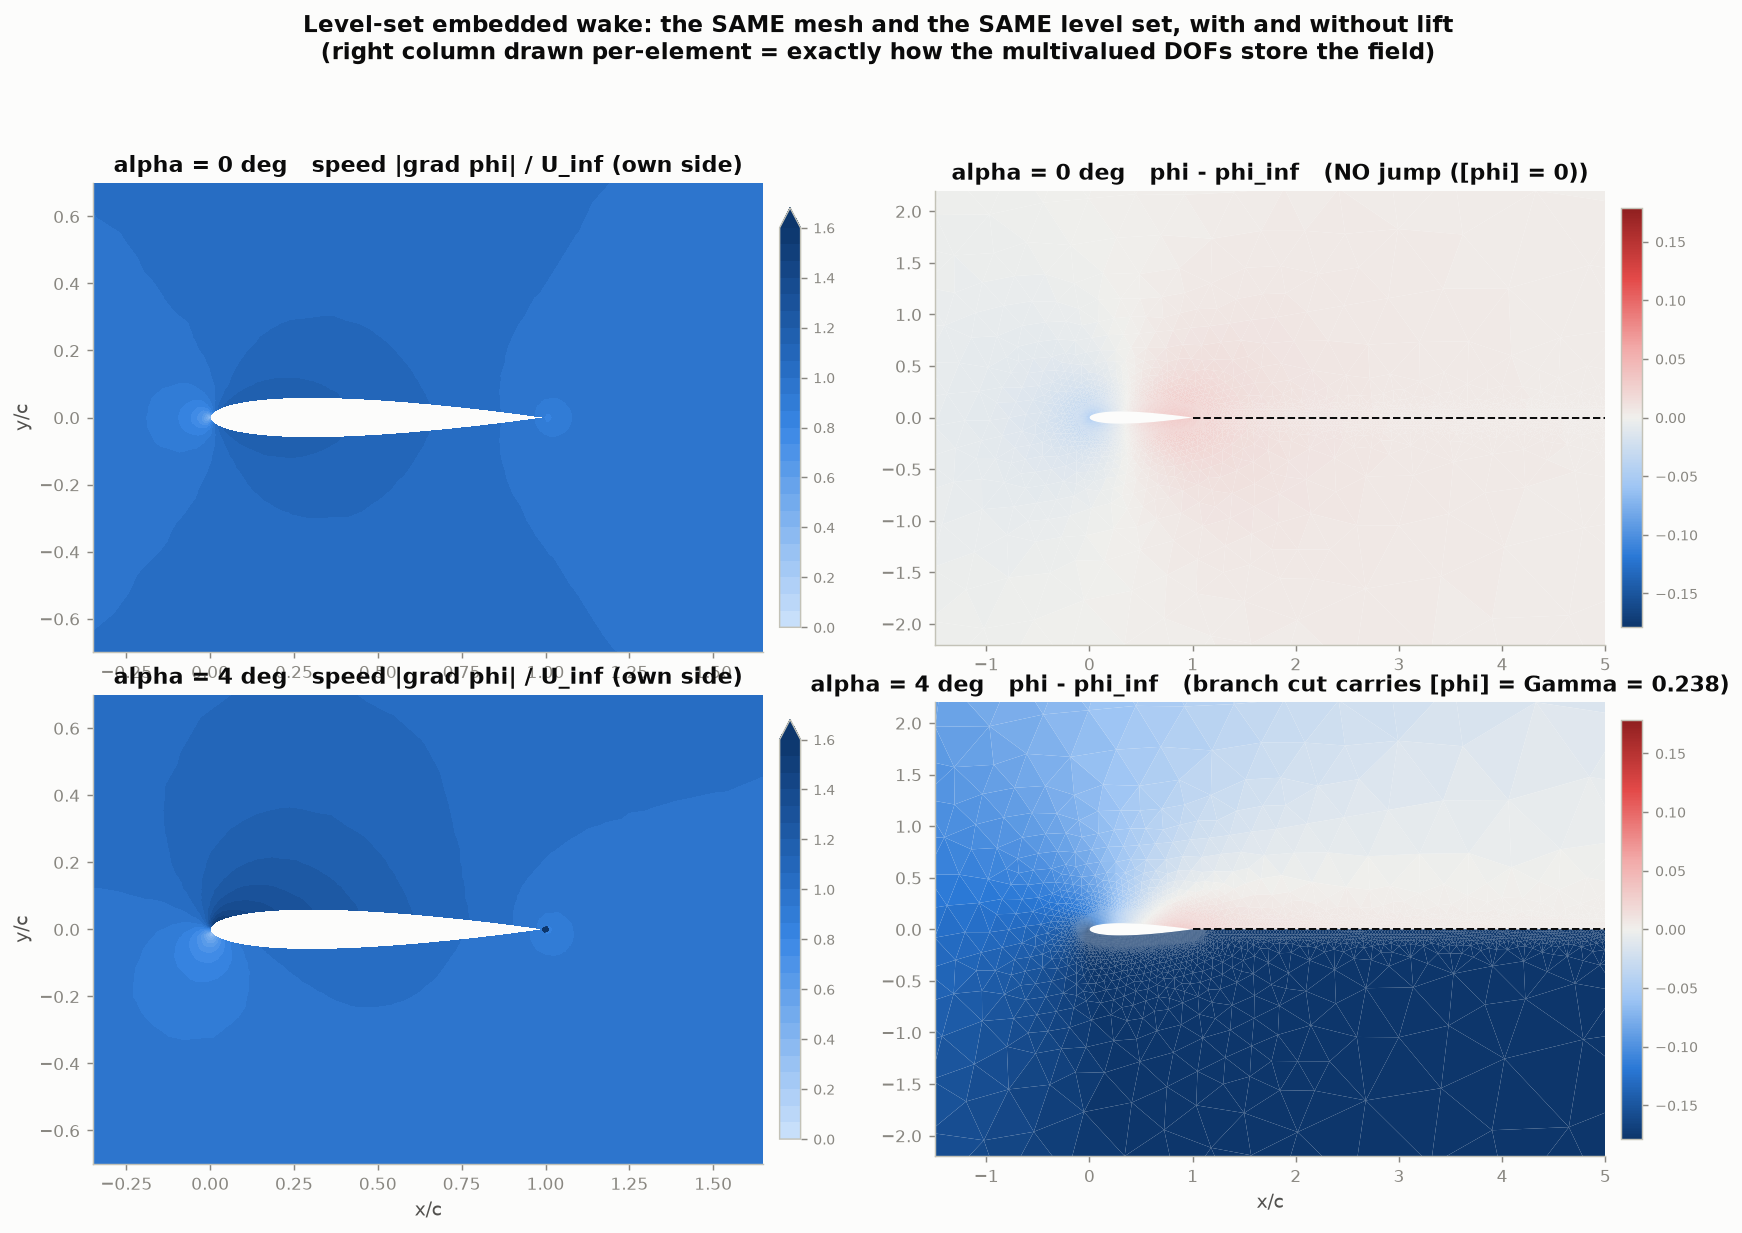
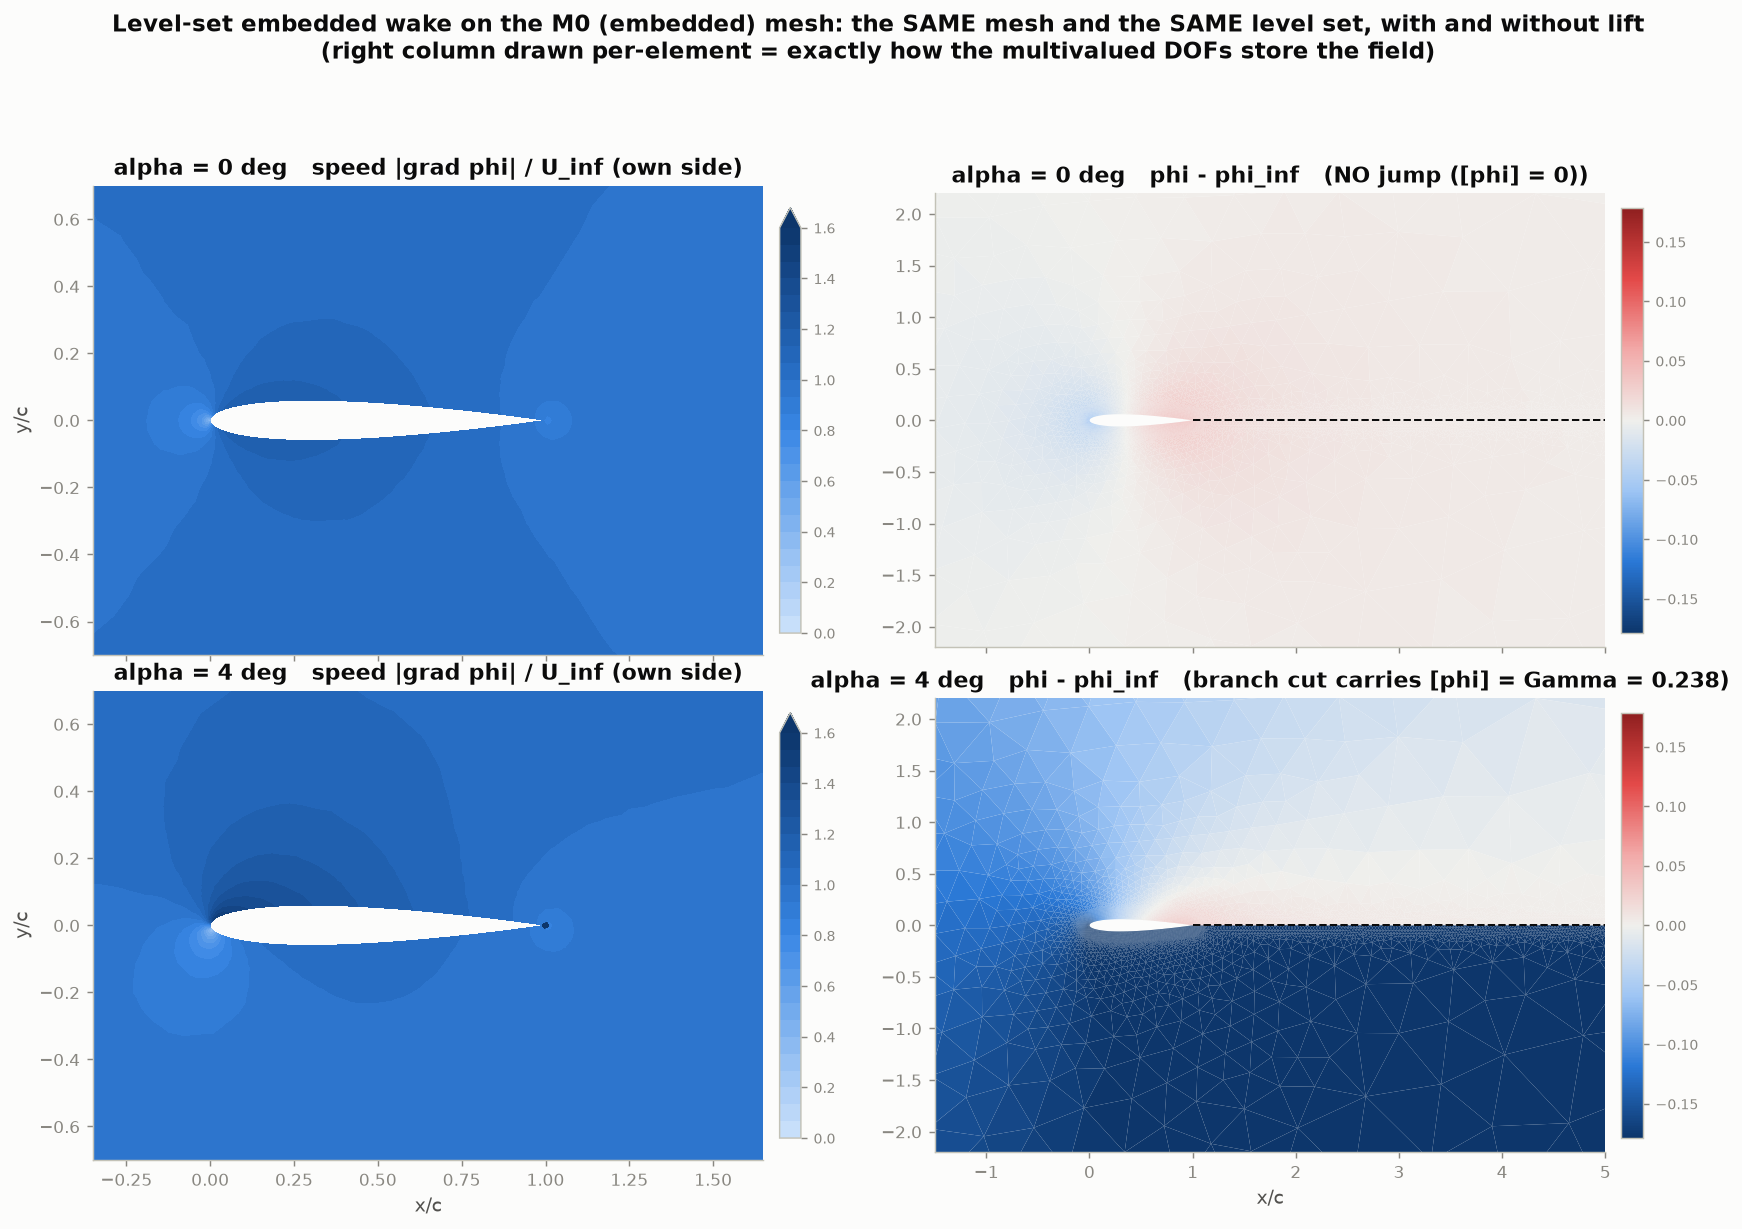
Track B B3/B4 demo: show BOTH mesh families in the flow field and the Cp
Per the request, the wake-free M3 mesh is now a full first-class case, not just
the TE-zoom contrast:

- flowfield_lift_vs_nolift_m3.png (NEW) -- the speed and perturbation-potential
  clouds on the wake-FREE M3 mesh, same layout as the M0 figure. The coarser
  wake-free triangulation is visible in the potential panel, and the branch cut
  still carries [phi] = Gamma = 0.234 crisply along the wake.

- wall_cp.png -- now overlays BOTH meshes: solid = M0 wake-embedded, dotted = M3
  wake-free, colour = surface (red upper / blue lower), grey dashed = conforming
  reference. Cp axis inverted; the two mesh families are clearly distinguished
  and both track the conforming solver (M3 cl_p 0.4674 vs conforming 0.4786 at
  alpha = 4, 2.3%, despite being coarser and wake-free).

Both meshes are now solved at both incidences up front (solve_all on M0 medium
and M3 coarse); demo_flowfield is parameterized by mesh, demo_wall_cp takes both,
and demo_dual_mesh reuses the M3 cases. Also hid the top-row x tick labels in the
flow-field figures (they collided with the bottom-row titles).

Self-checks now 13/13 PASS (added per-mesh no-lift/lift Gamma checks and an M3
wake-free cl_p-vs-conforming check). docs/demo_report.md updated. No solver
changes.

diff --git a/cases/demo/b3_levelset_lifting/run_demo.py b/cases/demo/b3_levelset_lifting/run_demo.py
@@ -5,30 +5,33 @@ The mesh topology knows NOTHING about the wake. A level set cuts through it,
 the cut elements are enriched with auxiliary DOFs, and lift emerges. This demo
 makes every part of that visible and self-checks it.
 
-  1. flowfield_lift_vs_nolift.png -- NACA0012 at alpha = 0 (no lift) and
-     alpha = 4 (lift), on the SAME mesh with the SAME level set. Speed field
-     (smooth flow off the TE = Kutta) and the perturbation potential rendered
-     DISCONTINUOUSLY, i.e. exactly as the multivalued DOFs store it: a crisp
-     branch cut along the wake carrying [phi] = Gamma at alpha = 4, and NO
-     jump at all at alpha = 0.
+  1. flowfield_lift_vs_nolift.png (M0 embedded) and
+     flowfield_lift_vs_nolift_m3.png (M3 wake-free) -- NACA0012 at alpha = 0 (no
+     lift) and alpha = 4 (lift), on the SAME mesh with the SAME level set, on
+     BOTH mesh families. Speed field (smooth flow off the TE = Kutta) and the
+     perturbation potential rendered DISCONTINUOUSLY, i.e. exactly as the
+     multivalued DOFs store it: a crisp branch cut carrying [phi] = Gamma at
+     alpha = 4, and NO jump at all at alpha = 0. The M3 panel shows the coarser
+     wake-free triangulation the level set cuts through generically.
 
-  2. levelset_region.png -- WHERE the level set acts. The unstructured mesh
+  3. levelset_region.png -- WHERE the level set acts. The unstructured mesh
      near the TE and along the wake corridor, with each element coloured by
      its role: cut (enriched, assembled twice), below-TE fan (its TE reference
      is the aux DOF), and the TE's wall-adjacent upper/lower control volumes
      (where the B4 Kutta condition lives). Nothing else in the mesh is touched.
 
-  3. wake_jump.png -- HOW the jump survives from the TE to the far field. The
+  4. wake_jump.png -- HOW the jump survives from the TE to the far field. The
      nodal jump [phi] at every cut node vs downstream distance: the g1+g2 wake
      LS convects it unchanged (constant = Gamma) all the way out, and the
      far-field aux DOFs are left FREE so it exits rather than being drained.
      Also shows the multivalued STORAGE: main vs aux DOF values at the sheet.
 
-  4. wall_cp.png -- surface Cp at both incidences, using the D11 per-side DOF
-     mapping (lower-surface TE triangles must read the TE's AUX value), cross
-     checked against the conforming solver on the same mesh.
+  5. wall_cp.png -- surface Cp at both incidences on BOTH mesh families
+     (solid = M0 embedded, dotted = M3 wake-free, colour = surface, grey dashed
+     = conforming reference), inverted axis. Uses the D11 per-side DOF mapping
+     (lower-surface TE triangles must read the TE's AUX value).
 
-  5. dual_mesh_embedded_vs_free.png -- the SAME level-set path on the
+  6. dual_mesh_embedded_vs_free.png -- the SAME level-set path on the
      wake-EMBEDDED M0 mesh (which HAS a `wake` tag, wake nodes lying exactly on
      the sheet) and on the wake-FREE M3 mesh (NO `wake` tag anywhere, generic
      cuts through generic elements -- the actual Track B workflow target). Same
@@ -38,10 +41,11 @@ Standalone + self-checking:  python cases/demo/b3_levelset_lifting/run_demo.py
 Outputs: cases/demo/b3_levelset_lifting/results/{*.png, summary.csv, checks.csv}
 Exit code 0 iff every acceptance check passes. Runtime ~2 min.
 
-Dual-mesh (roadmap Track B working rule): the detailed figures 1-4 run on the
-wake-embedded M0 family (which also permits the strict same-mesh A/B against the
-conforming solver); figure 5 adds the wake-free M3 family, where no conforming
-counterpart exists at all.
+Dual-mesh (roadmap Track B working rule): the flow field (fig 1-2) and Cp
+(fig 5) run on BOTH the wake-embedded M0 family (which also permits the strict
+same-mesh A/B against the conforming solver) and the wake-free M3 family (where
+no conforming counterpart exists at all); the enrichment map and wake-jump
+figures (3-4) are shown on M0. Runtime ~2 min.
 """
 
 import sys
@@ -156,8 +160,9 @@ def _explode(sec, wls):
     return verts, vals
 
 
-def demo_flowfield(mesh, cases, checks):
-    print("[1/5] flow field: lift vs no lift (same mesh, same level set)")
+def demo_flowfield(mesh, cases, checks, *, tag, mesh_label, out_name, step):
+    print(f"[{step}] flow field ({mesh_label}): lift vs no lift "
+          f"(same mesh, same level set)")
     fig, axes = plt.subplots(2, 2, figsize=(13.6, 9.4))
     # ONE colour scale for both rows, so "no lift" reads as a genuinely flat
     # field instead of an auto-scaled picture of round-off.
@@ -179,8 +184,8 @@ def demo_flowfield(mesh, cases, checks):
         ax.set_title(f"alpha = {a:.0f} deg   speed |grad phi| / U_inf "
                      f"(own side)")
         ax.set_ylabel("y/c")
-        if row == 1:
-            ax.set_xlabel("x/c")
+        ax.set_xlabel("x/c" if row == 1 else "")
+        ax.tick_params(labelbottom=(row == 1))
         ax.grid(False)
         cb = fig.colorbar(t, ax=ax, shrink=0.88, pad=0.02)
         cb.ax.tick_params(labelsize=8, colors=MUTED)
@@ -199,27 +204,27 @@ def demo_flowfield(mesh, cases, checks):
         jump = "NO jump ([phi] = 0)" if abs(gamma) < 1e-3 \
             else f"branch cut carries [phi] = Gamma = {gamma:.3f}"
         ax.set_title(f"alpha = {a:.0f} deg   phi - phi_inf   ({jump})")
-        if row == 1:
-            ax.set_xlabel("x/c")
+        ax.set_xlabel("x/c" if row == 1 else "")
+        ax.tick_params(labelbottom=(row == 1))
         ax.grid(False)
         cb = fig.colorbar(pc, ax=ax, shrink=0.88, pad=0.02)
         cb.ax.tick_params(labelsize=8, colors=MUTED)
         cb.outline.set_edgecolor(BASELINE)
 
-    fig.suptitle("Level-set embedded wake: the SAME mesh and the SAME level "
-                 "set, with and without lift\n"
+    fig.suptitle(f"Level-set embedded wake on the {mesh_label} mesh: the SAME "
+                 "mesh and the SAME level set, with and without lift\n"
                  "(right column drawn per-element = exactly how the "
                  "multivalued DOFs store the field)",
                  fontsize=12.5, fontweight="semibold", color=INK)
     fig.tight_layout(rect=(0, 0, 1, 0.92), h_pad=2.4)
-    finish(fig, OUT, "flowfield_lift_vs_nolift.png")
+    finish(fig, OUT, out_name)
 
     g0, g4 = cases[0.0]["res"]["gamma"], cases[4.0]["res"]["gamma"]
-    checks.add("no-lift", "Gamma at alpha = 0", f"{g0:.2e}",
-               "|Gamma| < 1e-3 (symmetric => no circulation)",
+    checks.add(f"no-lift[{tag}]", f"Gamma at alpha = 0 ({mesh_label})",
+               f"{g0:.2e}", "|Gamma| < 1e-3 (symmetric => no circulation)",
                bool(abs(g0) < 1e-3))
-    checks.add("lift", "Gamma at alpha = 4", f"{g4:.4f}",
-               "> 0.2 (the level-set path develops circulation)",
+    checks.add(f"lift[{tag}]", f"Gamma at alpha = 4 ({mesh_label})",
+               f"{g4:.4f}", "> 0.2 (the level-set path develops circulation)",
                bool(g4 > 0.2))
 
 
@@ -255,7 +260,7 @@ def _tri_class(mesh, cm, mvop, sec):
 
 
 def demo_levelset_region(mesh, cases, checks):
-    print("[2/5] where the level set acts (mesh + enriched elements)")
+    print("[3/6] where the level set acts (mesh + enriched elements)")
     c = cases[4.0]
     cm, mvop = c["cm"], c["mvop"]
     sec = _section(mesh, cm, mvop, c["res"]["phi_ext"], 4.0)
@@ -351,7 +356,7 @@ def demo_levelset_region(mesh, cases, checks):
 # 3. how the jump survives to the far field + how it is STORED
 # ---------------------------------------------------------------------------
 def demo_wake_jump(mesh, cases, checks):
-    print("[3/5] the wake jump: convected TE -> far field, and how it is stored")
+    print("[4/6] the wake jump: convected TE -> far field, and how it is stored")
     fig, axes = plt.subplots(1, 2, figsize=(13.2, 5.0))
 
     ax = axes[0]
@@ -445,17 +450,23 @@ def _cp_b(mesh, cm, mvop, phi_ext):
     return xc, cp, n_out[:, 1] > 0, cp, area, n_out
 
 
-def demo_wall_cp(mesh, cases, checks):
-    print("[4/5] wall Cp (D11 per-side mapping) vs the conforming path")
-    mesh_cut, wc = cut_wake(mesh)
+def _cl_p(mesh, cp, area, n_out, a):
+    lift = np.array([-np.sin(np.radians(a)), np.cos(np.radians(a)), 0.0])
+    dz = float(np.ptp(mesh.nodes[:, 2]))
+    return float((-(cp * area) @ n_out / dz) @ lift)
 
-    fig, axes = plt.subplots(1, 2, figsize=(13.2, 5.0), sharey=True)
+
+def demo_wall_cp(mesh_m0, cases_m0, mesh_m3, cases_m3, checks, step):
+    print(f"[{step}] wall Cp (D11 per-side mapping): BOTH meshes vs conforming")
+    mesh_cut, wc = cut_wake(mesh_m0)
+
+    fig, axes = plt.subplots(1, 2, figsize=(13.2, 5.2), sharey=True)
     rows = []
     for ax, a in zip(axes, ALPHAS):
-        c = cases[a]
-        xc, cp, upper, _, area, n_out = _cp_b(mesh, c["cm"], c["mvop"],
-                                              c["res"]["phi_ext"])
-        # conforming reference on the same mesh
+        # --- M0 (wake-EMBEDDED): level set (solid) + conforming (grey dashed)
+        c0 = cases_m0[a]
+        xc0, cp0, up0, _, area0, n0 = _cp_b(mesh_m0, c0["cm"], c0["mvop"],
+                                            c0["res"]["phi_ext"])
         rc = solve_laplace_lifting(mesh_cut, wc, alpha_deg=a)
         wall_c = mesh_cut.boundary_faces["wall"]
         n_c = wall_outward_normals(mesh_cut.nodes, mesh_cut.elements, wall_c)
@@ -466,71 +477,86 @@ def demo_wall_cp(mesh, cases, checks):
         xc_c = mesh_cut.nodes[wall_c].mean(axis=1)[:, 0]
         up_c = n_c[:, 1] > 0
 
-        for m, col, lab in ((upper, CRITICAL, "level set: upper"),
-                            (~upper, S1_BLUE, "level set: lower")):
-            o = np.argsort(xc[m])
-            ax.plot(xc[m][o], cp[m][o], "-", color=col, lw=1.9, label=lab)
-        for m, lab in ((up_c, "conforming: upper"), (~up_c, "conforming: lower")):
+        # --- M3 (wake-FREE): level set only (no conforming counterpart)
+        c3 = cases_m3[a]
+        xc3, cp3, up3, _, area3, n3 = _cp_b(mesh_m3, c3["cm"], c3["mvop"],
+                                            c3["res"]["phi_ext"])
+
+        # conforming = grey dashed reference underneath
+        for m in (up_c, ~up_c):
             o = np.argsort(xc_c[m])
-            ax.plot(xc_c[m][o], cp_c[m][o], "--", color=MUTED, lw=1.1,
-                    label=lab if "upper" in lab else None)
+            ax.plot(xc_c[m][o], cp_c[m][o], "--", color=MUTED, lw=1.2,
+                    zorder=1)
+        # colour = surface (red upper / blue lower); linestyle = mesh
+        # (solid = M0 embedded, dotted = M3 wake-free)
+        for xc, cp, up, ls, mk in ((xc0, cp0, up0, "-", None),
+                                   (xc3, cp3, up3, ":", None)):
+            for m, col in ((up, CRITICAL), (~up, S1_BLUE)):
+                o = np.argsort(xc[m])
+                ax.plot(xc[m][o], cp[m][o], ls, color=col, lw=2.0,
+                        zorder=3 if ls == "-" else 4)
         ax.invert_yaxis()
         ax.set_xlabel("x/c")
-        ax.set_title(f"alpha = {a:.0f} deg   "
-                     f"Gamma = {c['res']['gamma']:+.4f}  "
-                     f"(conforming {float(np.mean(rc['gamma'])):+.4f})")
-        ax.legend(fontsize=8.5)
+        ax.set_title(f"alpha = {a:.0f} deg      "
+                     f"Gamma:  M0 {c0['res']['gamma']:+.4f}   "
+                     f"M3 {c3['res']['gamma']:+.4f}   "
+                     f"(conforming {float(np.mean(rc['gamma'])):+.4f})",
+                     fontsize=9.5)
 
-        # cl by pressure integration, both paths
-        lift = np.array([-np.sin(np.radians(a)), np.cos(np.radians(a)), 0.0])
-        dz = float(np.ptp(mesh.nodes[:, 2]))
-        cl_b = float((-(cp * area) @ n_out / dz) @ lift)
-        cl_c = float((-(cp_c * area_c) @ n_c / dz) @ lift)
-        rows.append((f"{a:.0f}", f"{c['res']['gamma']:.6f}",
+        cl0 = _cl_p(mesh_m0, cp0, area0, n0, a)
+        cl3 = _cl_p(mesh_m3, cp3, area3, n3, a)
+        clc = _cl_p(mesh_cut, cp_c, area_c, n_c, a)
+        rows.append((f"{a:.0f}", f"{c0['res']['gamma']:.6f}",
+                     f"{c3['res']['gamma']:.6f}",
                      f"{float(np.mean(rc['gamma'])):.6f}",
-                     f"{cl_b:.6f}", f"{cl_c:.6f}",
-                     f"{2*c['res']['gamma']:.6f}"))
+                     f"{cl0:.6f}", f"{cl3:.6f}", f"{clc:.6f}"))
         if a > 0:
-            checks.add("cp-vs-conforming", f"cl_pressure alpha={a:.0f} "
-                       "(level set vs conforming)",
-                       f"{cl_b:.4f} vs {cl_c:.4f}",
-                       "within 3%", bool(abs(cl_b - cl_c) / abs(cl_c) < 0.03))
-            checks.add("D11", f"cl_pressure vs cl_KJ = 2*Gamma (alpha={a:.0f})",
-                       f"{cl_b:.4f} vs {2*c['res']['gamma']:.4f}",
+            checks.add("cp-vs-conforming",
+                       f"cl_p alpha={a:.0f}: M0 level set vs conforming",
+                       f"{cl0:.4f} vs {clc:.4f}",
+                       "within 3%", bool(abs(cl0 - clc) / abs(clc) < 0.03))
+            checks.add("D11", f"cl_p vs cl_KJ = 2*Gamma (M0, alpha={a:.0f})",
+                       f"{cl0:.4f} vs {2*c0['res']['gamma']:.4f}",
                        "within 5% (per-side wall mapping is correct)",
-                       bool(abs(cl_b - 2*c["res"]["gamma"])
-                            / abs(2*c["res"]["gamma"]) < 0.05))
+                       bool(abs(cl0 - 2*c0["res"]["gamma"])
+                            / abs(2*c0["res"]["gamma"]) < 0.05))
+            checks.add("cp-wakefree",
+                       f"cl_p alpha={a:.0f}: M3 wake-free vs conforming",
+                       f"{cl3:.4f} vs {clc:.4f}",
+                       "within 5%", bool(abs(cl3 - clc) / abs(clc) < 0.05))
 
-    axes[0].set_ylabel("Cp")
-    fig.suptitle("Surface Cp: the level-set path reproduces the conforming "
-                 "solver on the SAME mesh\n"
-                 "(alpha = 0 is symmetric => upper and lower collapse; "
-                 "alpha = 4 shows the loading)",
-                 fontsize=12.5, fontweight="semibold", color=INK)
-    fig.tight_layout(rect=(0, 0, 1, 0.91))
+    axes[0].set_ylabel("Cp   (inverted axis)")
+    handles = [
+        Line2D([], [], color=CRITICAL, lw=2, label="upper surface"),
+        Line2D([], [], color=S1_BLUE, lw=2, label="lower surface"),
+        Line2D([], [], color=INK, lw=2, ls="-",
+               label="M0 wake-embedded (level set)"),
+        Line2D([], [], color=INK, lw=2, ls=":",
+               label="M3 wake-free (level set)"),
+        Line2D([], [], color=MUTED, lw=1.4, ls="--",
+               label="conforming solver (M0, reference)"),
+    ]
+    fig.legend(handles=handles, loc="lower center", ncol=5, frameon=False,
+               fontsize=9, bbox_to_anchor=(0.5, -0.02))
+    fig.suptitle("Surface Cp on BOTH mesh families: the wake-embedded (M0) and "
+                 "wake-free (M3) level-set paths\n"
+                 "reproduce the conforming solver (alpha = 0 collapses "
+                 "upper/lower; alpha = 4 shows the loading)",
+                 fontsize=12.2, fontweight="semibold", color=INK)
+    fig.tight_layout(rect=(0, 0.07, 1, 0.91))
     finish(fig, OUT, "wall_cp.png")
 
     write_csv(OUT, "summary.csv",
-              "alpha_deg,gamma_levelset,gamma_conforming,cl_p_levelset,"
-              "cl_p_conforming,cl_kj_levelset", rows)
+              "alpha_deg,gamma_m0,gamma_m3,gamma_conforming,"
+              "cl_p_m0,cl_p_m3,cl_p_conforming", rows)
 
 
 # ---------------------------------------------------------------------------
 # 5. dual-mesh: the SAME level set on a wake-EMBEDDED and a wake-FREE mesh
 # ---------------------------------------------------------------------------
-def demo_dual_mesh(mesh_m0, cases_m0, checks):
-    print("[5/5] dual-mesh: embedded (M0) vs wake-free (M3), the workflow form")
-    path = NACA_FREE_DIR / "coarse.msh"     # committed; medium is gitignored
-    if not path.exists():
-        print(f"    (skip: {path} not present)")
-        return
-    mesh_m3 = read_mesh(path)
-    assert "wake" not in mesh_m3.boundary_faces, "M3 must have NO wake tag"
-
-    # solve the wake-free mesh at alpha = 4 with the SAME level-set path
-    wls3, cm3, mvop3 = build(mesh_m3)
-    r3 = solve_multivalued_lifting(mvop3, mesh_m3, 0.0, alpha_deg=4.0)
-    print(f"    M3 wake-free: Gamma = {r3['gamma']:+.5f}")
+def demo_dual_mesh(mesh_m0, cases_m0, mesh_m3, cases_m3, checks, step):
+    print(f"[{step}] dual-mesh: embedded (M0) vs wake-free (M3) cut structure")
+    r3 = cases_m3[4.0]["res"]
 
     panels = [
         ("M0  wake-EMBEDDED  (the mesh HAS a `wake` tag;\n"
@@ -538,7 +564,8 @@ def demo_dual_mesh(mesh_m0, cases_m0, checks):
          cases_m0[4.0]["cm"], cases_m0[4.0]["mvop"],
          cases_m0[4.0]["res"], "wake" in mesh_m0.boundary_faces),
         ("M3  wake-FREE  (NO `wake` tag anywhere;\n"
-         "the level set makes GENERIC cuts)", mesh_m3, cm3, mvop3, r3, False),
+         "the level set makes GENERIC cuts)", mesh_m3,
+         cases_m3[4.0]["cm"], cases_m3[4.0]["mvop"], r3, False),
     ]
 
     fig, axes = plt.subplots(1, 2, figsize=(13.6, 5.6))
@@ -601,20 +628,30 @@ def main():
     OUT.mkdir(parents=True, exist_ok=True)
     checks = CheckList("Track B / B3 + B4 -- level-set embedded wake")
 
-    path = NACA_DIR / f"{LEVEL}.msh"
-    if not path.exists():
-        print(f"missing mesh: {path}")
+    path0 = NACA_DIR / f"{LEVEL}.msh"
+    path3 = NACA_FREE_DIR / "coarse.msh"    # committed; M3 medium is gitignored
+    if not path0.exists() or not path3.exists():
+        print(f"missing mesh: {path0 if not path0.exists() else path3}")
         return 1
-    print(f"[0/5] {LEVEL} NACA0012 mesh -- the topology knows nothing "
-          f"about the wake")
-    mesh = read_mesh(path)
-    cases = solve_all(mesh)
 
-    demo_flowfield(mesh, cases, checks)
-    demo_levelset_region(mesh, cases, checks)
-    demo_wake_jump(mesh, cases, checks)
-    demo_wall_cp(mesh, cases, checks)
-    demo_dual_mesh(mesh, cases, checks)
+    print(f"[0/6] wake-EMBEDDED {LEVEL} M0 mesh (has a `wake` tag)")
+    mesh_m0 = read_mesh(path0)
+    cases_m0 = solve_all(mesh_m0)
+    print("[0/6] wake-FREE coarse M3 mesh (NO `wake` tag -- the workflow form)")
+    mesh_m3 = read_mesh(path3)
+    assert "wake" not in mesh_m3.boundary_faces
+    cases_m3 = solve_all(mesh_m3)
+
+    demo_flowfield(mesh_m0, cases_m0, checks, tag="M0",
+                   mesh_label="M0 (embedded)",
+                   out_name="flowfield_lift_vs_nolift.png", step="1/6")
+    demo_flowfield(mesh_m3, cases_m3, checks, tag="M3",
+                   mesh_label="M3 (wake-free)",
+                   out_name="flowfield_lift_vs_nolift_m3.png", step="2/6")
+    demo_levelset_region(mesh_m0, cases_m0, checks)
+    demo_wake_jump(mesh_m0, cases_m0, checks)
+    demo_wall_cp(mesh_m0, cases_m0, mesh_m3, cases_m3, checks, step="5/6")
+    demo_dual_mesh(mesh_m0, cases_m0, mesh_m3, cases_m3, checks, step="6/6")
 
     return checks.report(OUT)
 

diff --git a/docs/demo_report.md b/docs/demo_report.md
@@ -1386,10 +1386,12 @@ mesh with the same level set**. The mesh topology knows nothing about the wake.
 
 **Figures.**
 
-1. `flowfield_lift_vs_nolift.png` — speed (own-side) and the perturbation
-   potential drawn **per element**, i.e. exactly as the multivalued DOFs store
-   it: a crisp branch cut carrying [φ] = Γ at α = 4, and a flat field with **no
-   jump at all** at α = 0. Same mesh, same level set, both rows.
+1. `flowfield_lift_vs_nolift.png` (M0 embedded) + `flowfield_lift_vs_nolift_m3.png`
+   (M3 wake-free) — speed (own-side) and the perturbation potential drawn **per
+   element**, i.e. exactly as the multivalued DOFs store it: a crisp branch cut
+   carrying [φ] = Γ at α = 4, and a flat field with **no jump at all** at α = 0.
+   Shown on **both** mesh families; the M3 panel exposes the coarser wake-free
+   triangulation the level set cuts through generically.
 2. `levelset_region.png` — **where** the level set acts: ONE layer of elements
    (4.8% of the tets), the below-TE fan, and the B4 TE-Kutta wall-adjacent
    control volumes. The mesh is never modified. (The cut layer sits just BELOW
@@ -1406,10 +1408,12 @@ mesh with the same level set**. The mesh topology knows nothing about the wake.
    other side, and the gap between them is exactly Γ, all the way out. One mesh,
    one extra dof per cut node — NOT two meshes (López fig. 3.6's "two meshes" is
    only a visualization).
-4. `wall_cp.png` — surface Cp at both incidences using the **D11 per-side DOF
-   mapping** (lower-surface TE triangles must read the TE's AUX value; using
-   `phi_main` alone gives cl_pressure = −3.35, junk). It overlays the conforming
-   solver on the same mesh at both α; at α = 0 upper and lower collapse.
+4. `wall_cp.png` — surface Cp at both incidences on **both mesh families**
+   (solid = M0 embedded, dotted = M3 wake-free, colour = surface, grey dashed =
+   conforming reference; inverted axis), using the **D11 per-side DOF mapping**
+   (lower-surface TE triangles must read the TE's AUX value; `phi_main` alone
+   gives cl_pressure = −3.35, junk). At α = 0 upper and lower collapse; the M3
+   cl_p is within 2.3% of conforming despite being a coarser, wake-free mesh.
 5. `dual_mesh_embedded_vs_free.png` — the **dual-mesh rule** made visible: the
    same level-set path on the wake-**embedded** M0 mesh (which HAS a `wake` tag,
    its wake nodes lying exactly on the sheet) and on the wake-**free** M3 mesh